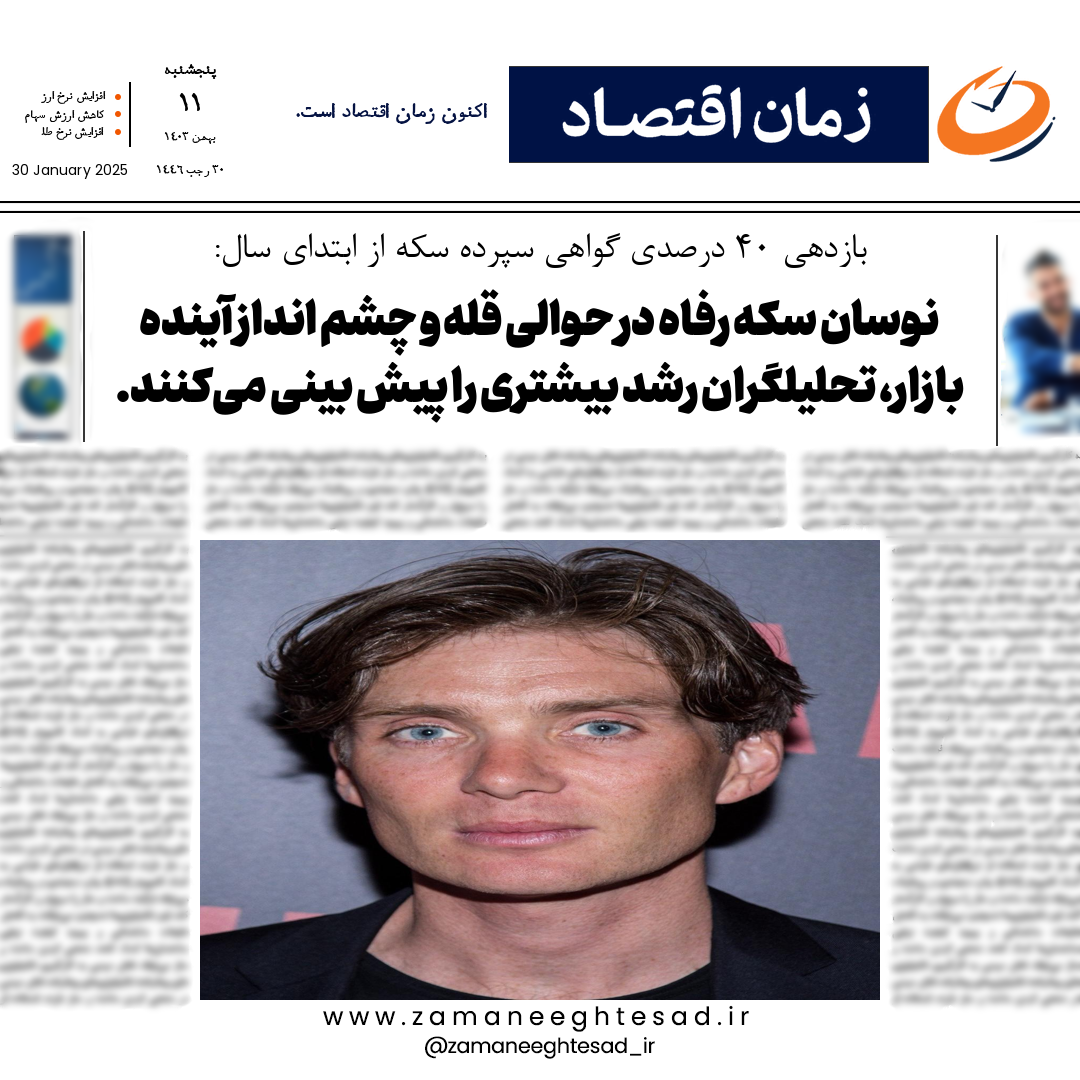
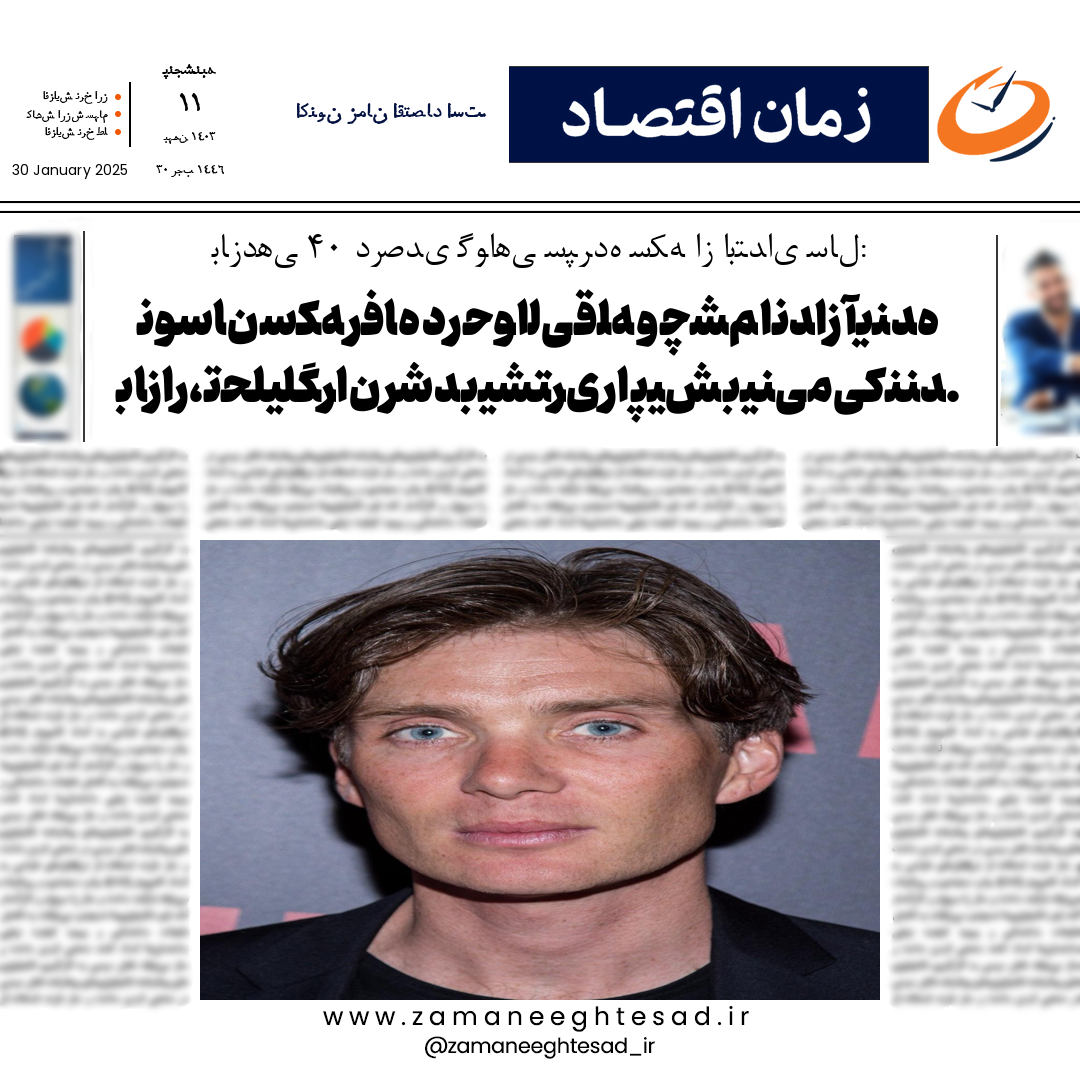
alllah

diff --git a/generate_image.py b/generate_image.py
@@ -190,7 +190,7 @@ def generate_news_image(
             break
 
     # Draw slogan
-    slogan_box_width =  - 279
+    slogan_box_width = 505 - 279
     slogan_y_offset = 100
     current_slogan_line = ""
     slogan_lines = []
